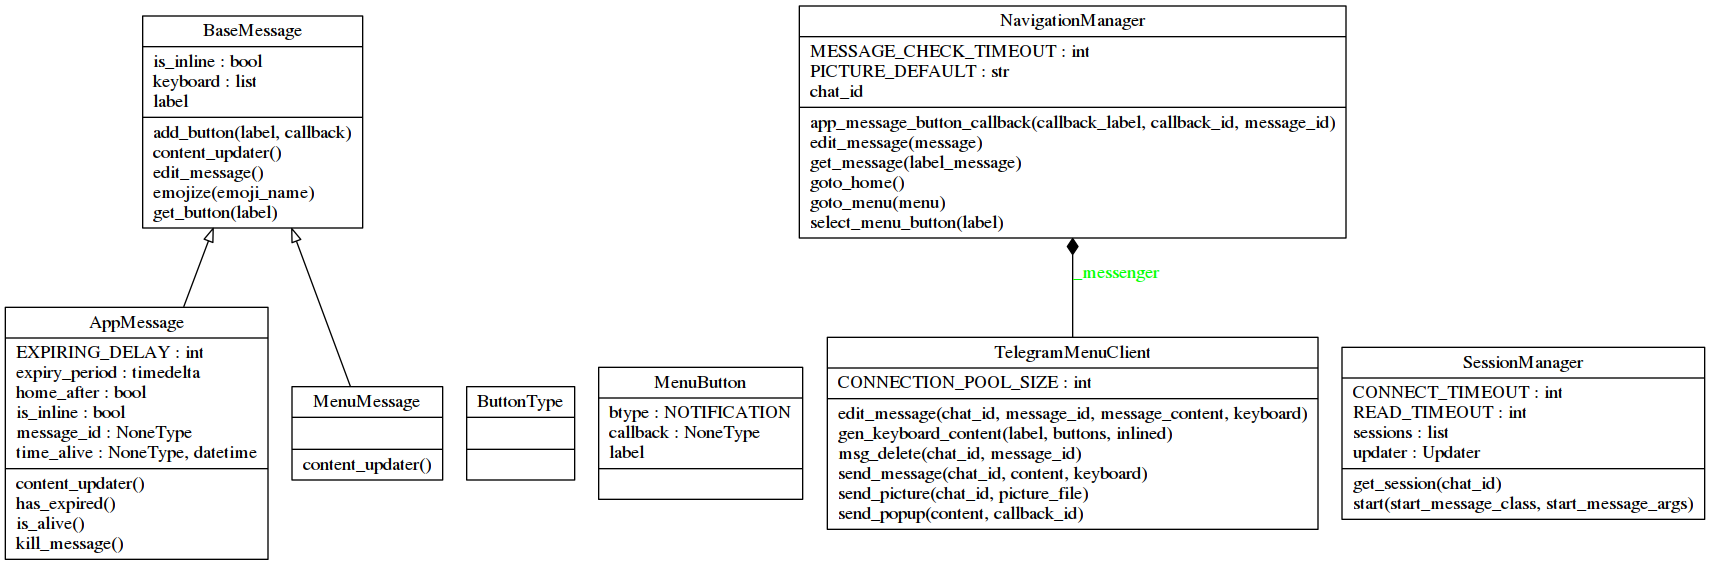
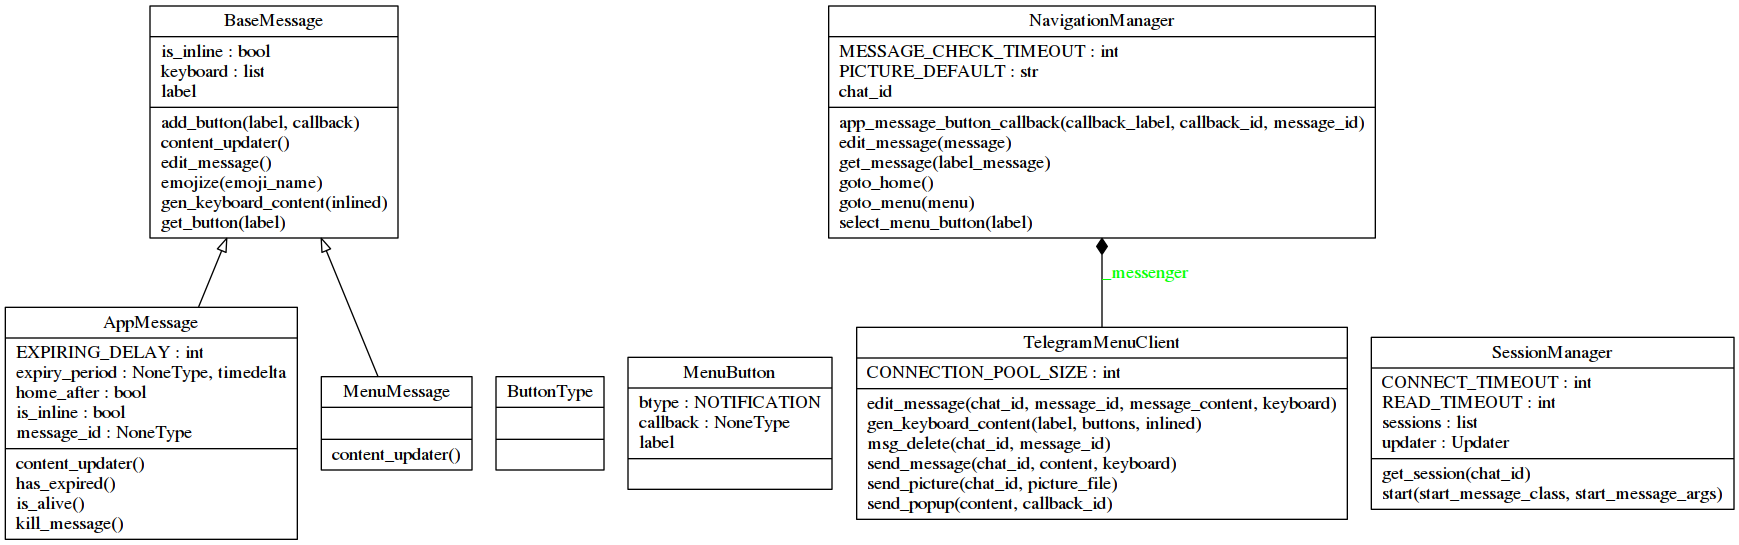
Bump to version 1.5

Changed region(s): [[0.0, 0.4991, 1.0, 0.9982], [0.4649, 0.0, 0.8058, 0.5303], [0.062, 0.0, 0.248, 0.4679]]

diff --git a/telegram_menu/models.py b/telegram_menu/models.py
@@ -25,6 +25,8 @@ from enum import Enum, auto
 
 import emoji
 
+from telegram import InlineKeyboardButton, InlineKeyboardMarkup, KeyboardButton, ReplyKeyboardMarkup
+
 
 class ButtonType(Enum):
     """Button type enumeration."""
@@ -136,6 +138,55 @@ class BaseMessage:
         """Update message content."""
         raise NotImplementedError
 
+    def gen_keyboard_content(self, inlined=None):
+        """Generate keyboard.
+            
+        Args:
+            inlined (bool, optional): inlined keyboard
+
+        Returns:
+            ReplyKeyboardMarkup, InlineKeyboardMarkup: generated keyboard
+
+        """
+        if inlined is None:
+            inlined = self.is_inline
+        keyboard_buttons = []
+        button_object = InlineKeyboardButton if inlined else KeyboardButton
+        if inlined:
+            buttons_per_line = 4 if len(self.keyboard) > 5 else 5
+        else:
+            buttons_per_line = 2
+        for button in self._get_array_from_list(self.keyboard, buttons_per_line):
+            keyboard_buttons.append(
+                [button_object(text=x.label, callback_data="%s.%s" % (self.label, x.label)) for x in button]
+            )
+        if inlined:
+            return InlineKeyboardMarkup(inline_keyboard=keyboard_buttons, resize_keyboard=True)
+        return ReplyKeyboardMarkup(keyboard=keyboard_buttons, resize_keyboard=True)
+
+    @staticmethod
+    def _get_array_from_list(buttons, cells_per_line):
+        """Convert ar array of MenuButton to a grid.
+        
+        Args:
+            buttons (list): list of MenuButton
+            cells_per_line (int): number of cells per line
+            
+        Returns:
+            list: list of list of MenuButton
+
+        """
+        array = []
+        array_row = []
+        for item in buttons:
+            array_row.append(item)
+            if len(array_row) % cells_per_line == 0:
+                array.append(array_row)
+                array_row = []
+        if array_row:
+            array.append(array_row)
+        return array
+
 
 class MenuMessage(BaseMessage):
     """Base menu, wrapper for main keyboard.
@@ -161,26 +212,30 @@ class AppMessage(BaseMessage):
     Args:
         navigation (telegram_menu.navigation.NavigationManager): navigation manager
         label (str): message label
+        expiry_period (datetime, optional): expiring period of the message
     
     """
 
     EXPIRING_DELAY = 120  # seconds
 
-    def __init__(self, navigation, label):
+    def __init__(self, navigation, label, expiry_period=None):
         """Init AppMessage class."""
         BaseMessage.__init__(self, navigation, label)
-        self._logger = logging.getLogger(__name__)
-        self._logger.setLevel(logging.DEBUG)
-        self._status = None
         self.home_after = False
         self.message_id = None
         self.is_inline = True
-        self.time_alive = None
-        self.expiry_period = datetime.timedelta(seconds=self.EXPIRING_DELAY)
+        self.expiry_period = (
+            expiry_period if expiry_period is not None else datetime.timedelta(seconds=self.EXPIRING_DELAY)
+        )
+
+        self._logger = logging.getLogger(__name__)
+        self._logger.setLevel(logging.DEBUG)
+        self._status = None
+        self._time_alive = None
 
     def is_alive(self):
         """Update message time stamp."""
-        self.time_alive = datetime.datetime.now()
+        self._time_alive = datetime.datetime.now()
 
     def has_expired(self):
         """Return True if expiry date of message has expired.
@@ -189,7 +244,7 @@ class AppMessage(BaseMessage):
             bool: True if timer has expired
         
         """
-        return self.time_alive + self.expiry_period < datetime.datetime.now()
+        return self._time_alive + self.expiry_period < datetime.datetime.now()
 
     def kill_message(self):
         """Display status before message is destroyed."""

diff --git a/telegram_menu/navigation.py b/telegram_menu/navigation.py
@@ -232,7 +232,7 @@ class NavigationManager:
         """
         title = menu.content_updater()
         self._logger.info("Opening menu %s", menu.label)
-        keyboard = self._messenger.gen_keyboard_content(menu.label, menu.keyboard, inlined=False)
+        keyboard = menu.gen_keyboard_content(inlined=False)
         msg_id = self._messenger.send_message(self.chat_id, title, keyboard)
         self._menu_queue.append(menu)
         return msg_id
@@ -273,7 +273,7 @@ class NavigationManager:
 
         message.is_alive()
 
-        keyboard = self._messenger.gen_keyboard_content(message.label, message.keyboard, inlined=True)
+        keyboard = message.gen_keyboard_content(inlined=True)
         message.message_id = self._messenger.send_message(self.chat_id, title, keyboard)
         self._message_queue.append(message)
 
@@ -300,7 +300,7 @@ class NavigationManager:
         if not self._message_check_changes(message, content):
             return False
 
-        keyboard_format = TelegramMenuClient.gen_keyboard_content(message.label, message.keyboard, message.is_inline)
+        keyboard_format = message.gen_keyboard_content()
         self._messenger.edit_message(self.chat_id, message.message_id, content, keyboard_format)
         return True
 
@@ -391,7 +391,7 @@ class NavigationManager:
         if not self._message_check_changes(message, content):
             return
 
-        keyboard_format = TelegramMenuClient.gen_keyboard_content(message.label, message.keyboard, True)
+        keyboard_format = message.gen_keyboard_content(True)
         self._messenger.edit_message(self.chat_id, message_id, content, keyboard_format)
 
     def get_message(self, label_message):

diff --git a/telegram_menu/messenger.py b/telegram_menu/messenger.py
@@ -96,7 +96,7 @@ class TelegramMenuClient:
         Args:
             chat_id (int): chat identifier
             message_id (int): message identifier
-            content (str): message content
+            message_content (str): message content
             keyboard (telegram.replykeyboardmarkup.ReplyKeyboardMarkup): keyboard
         
         Returns:

diff --git a/setup.py b/setup.py
@@ -8,7 +8,7 @@ with open(os.path.join("README.md"), "r") as fh:
     LONG_DESCRIPTION = fh.read()
 
 __title__ = "telegram_menu"
-__version__ = "0.1.4"
+__version__ = "0.1.5"
 
 setup(
     name=__title__,
